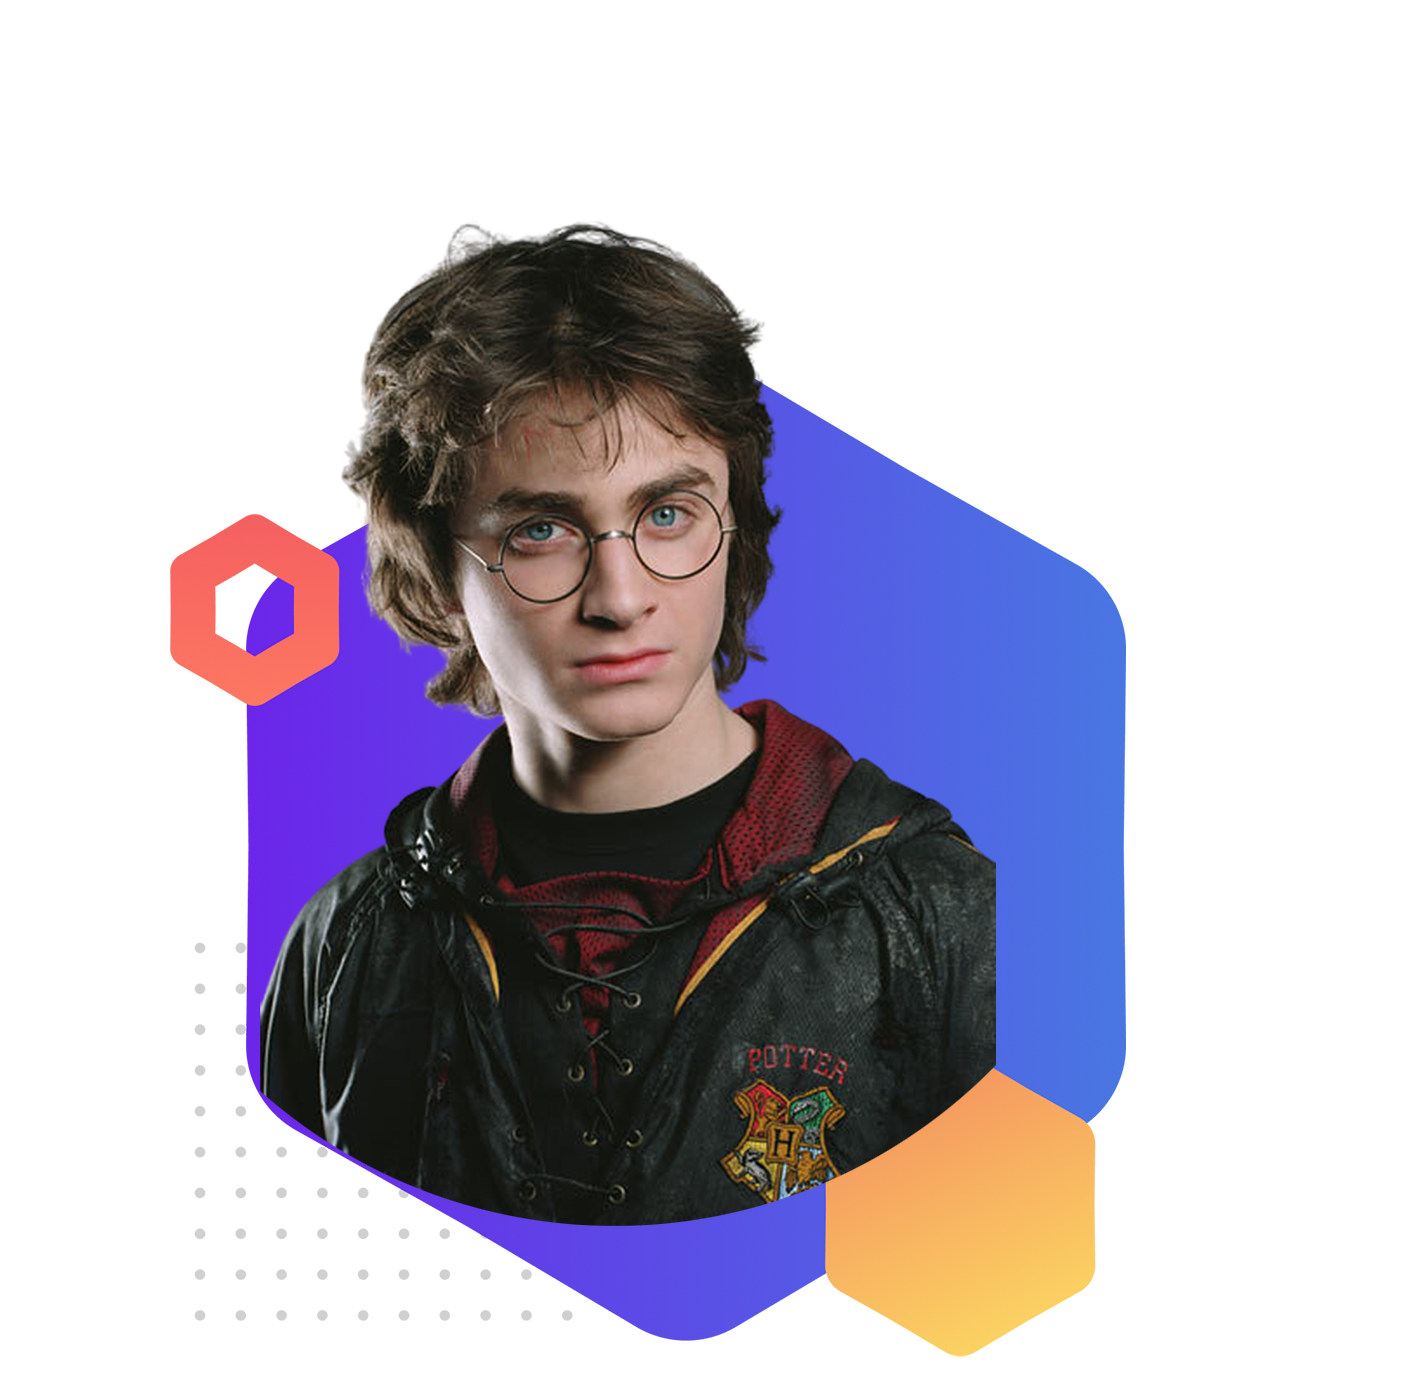
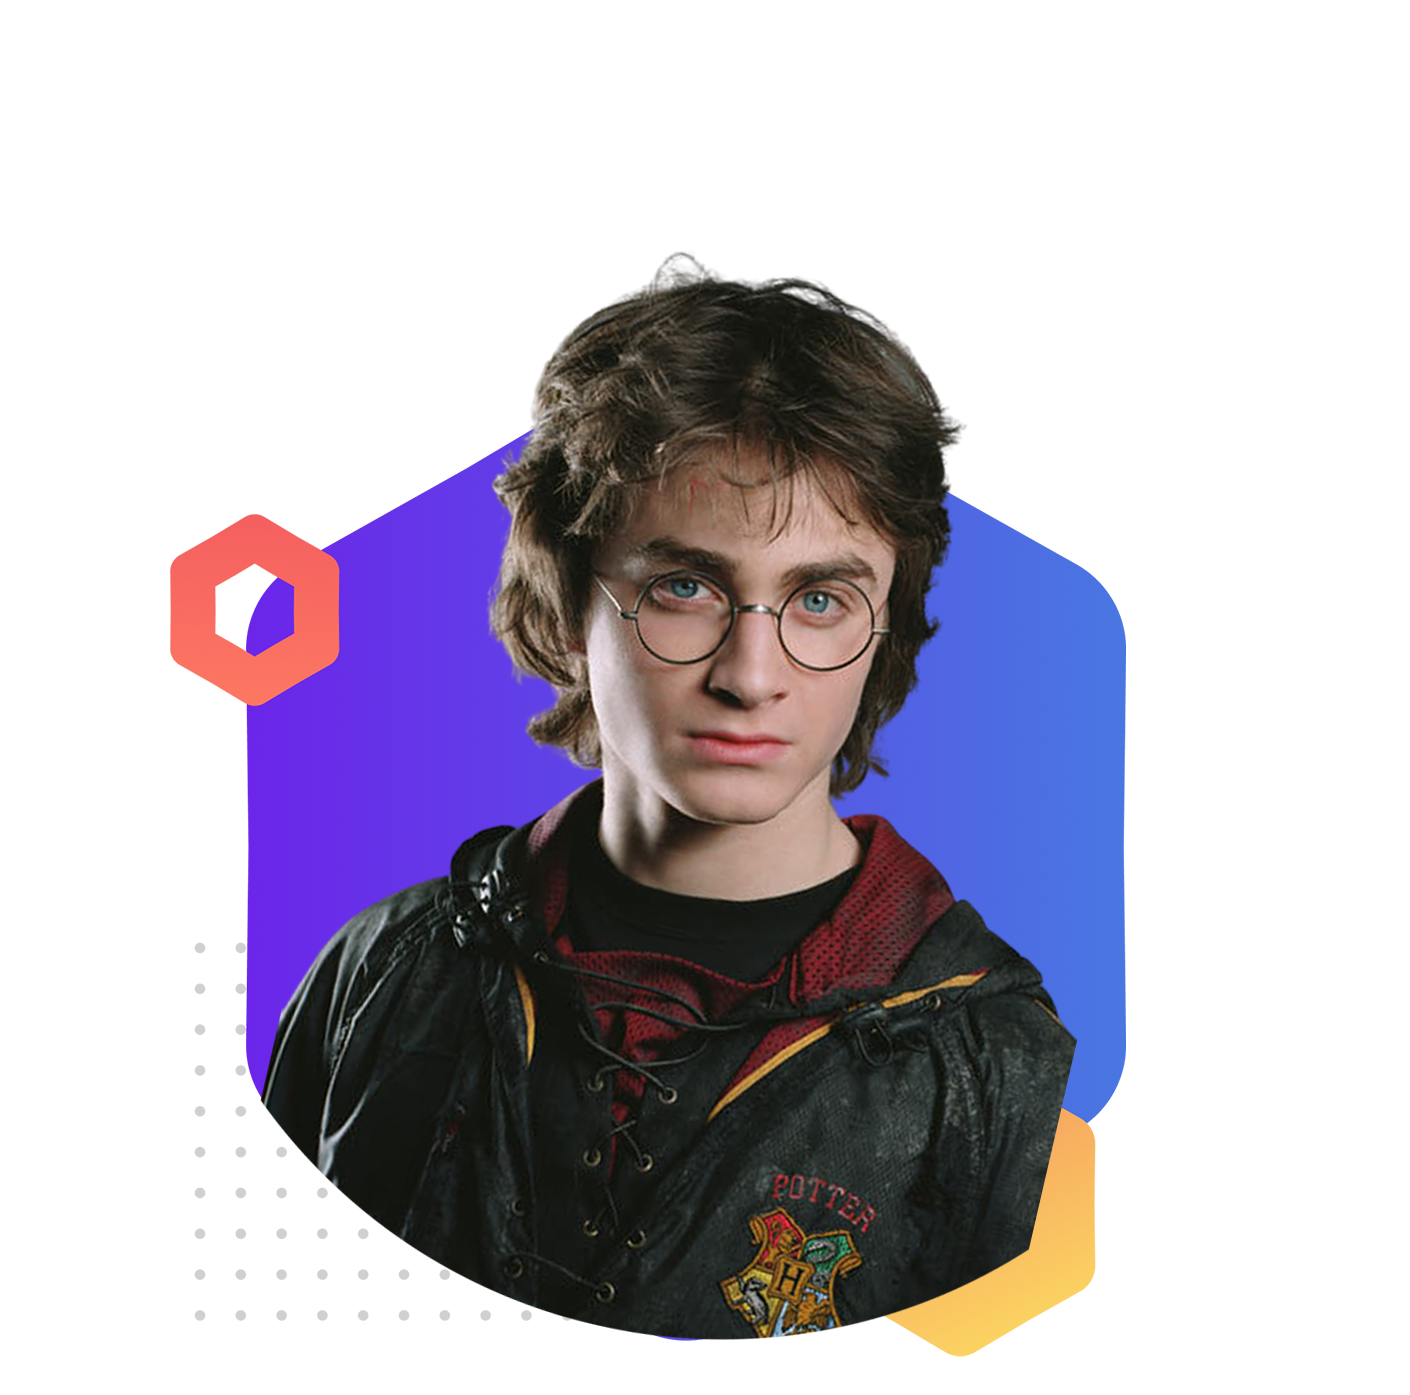
new photo added

Changed region(s): [[0.1872, 0.1541, 0.7801, 0.9864]]

diff --git a/index.html b/index.html
@@ -32,7 +32,7 @@
 
     <section>
         <div class="half-width">
-            <img src="images/profile5.png" alt="">
+            <img src="images/profile0.png" alt="">
         </div>
 
         <div class="half-width">
